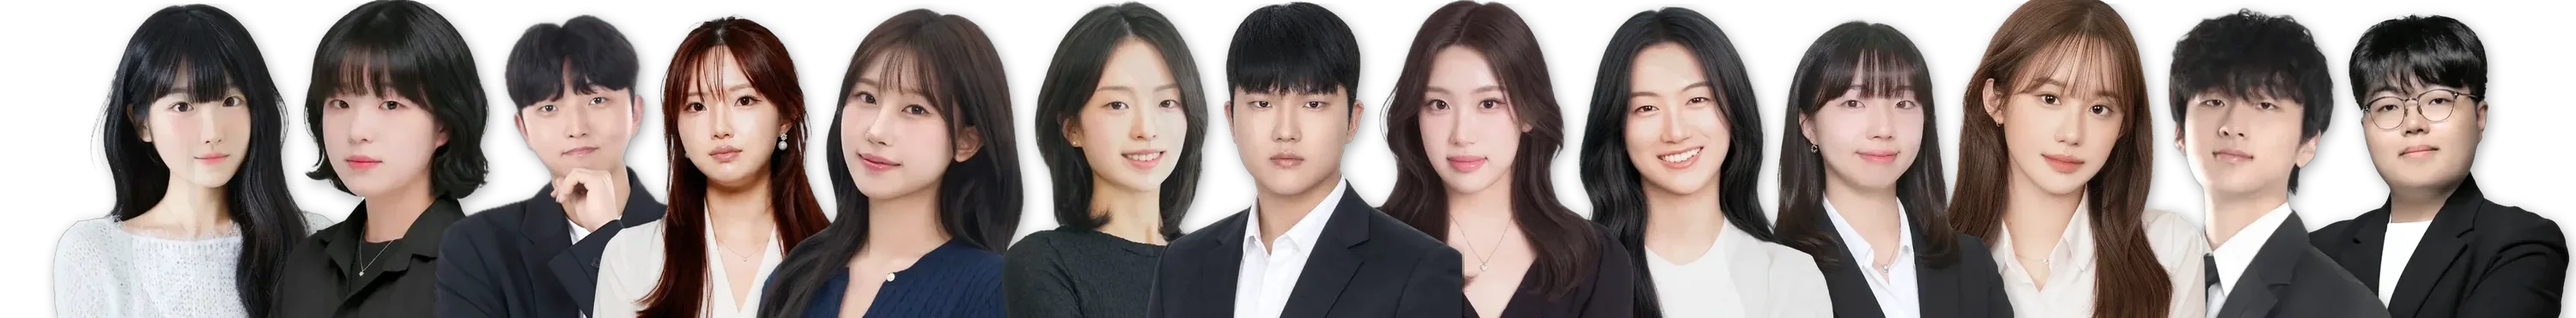
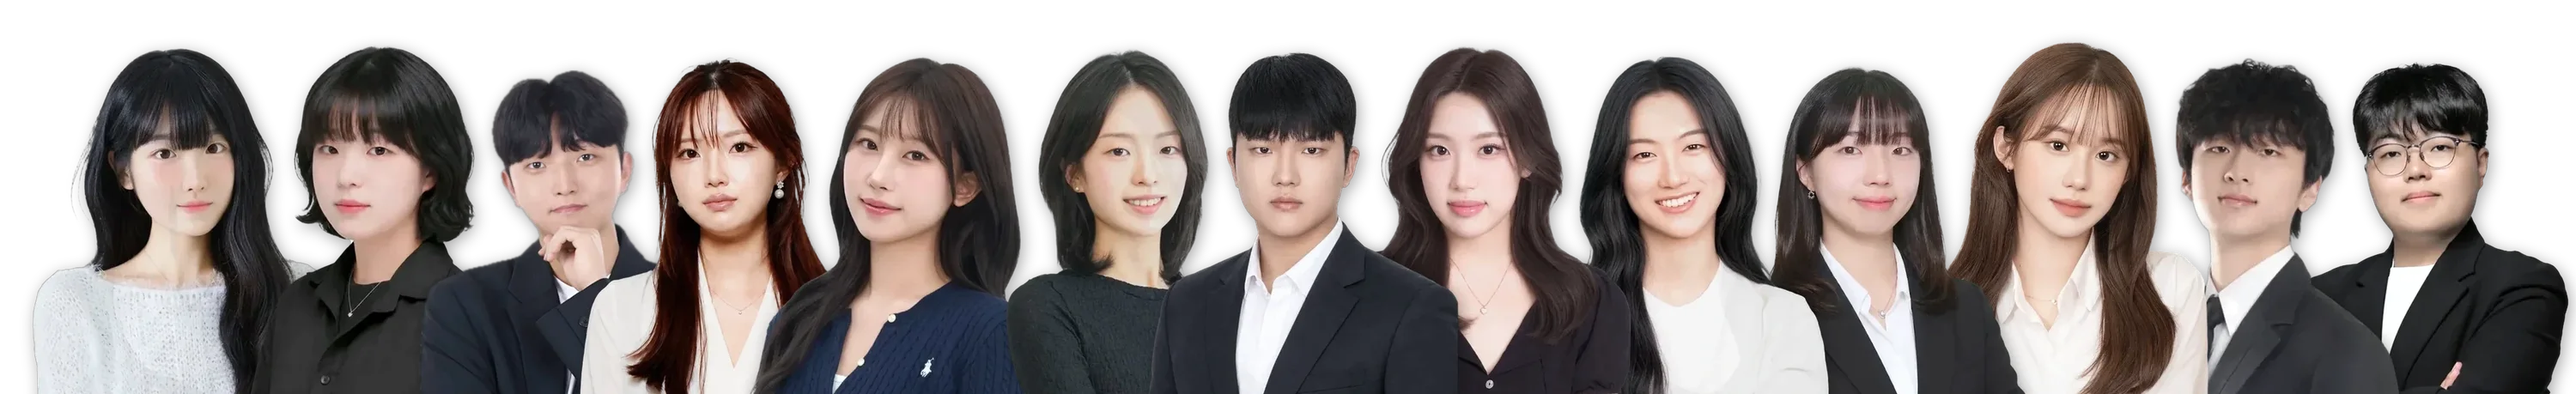
메인: 선생님 단체 사진 다시 만듦(얼굴 68점 인식으로 얼굴 크기·눈 높이 맞춤, 머리 잘림 없앰, 머리 간격 동일), 슬로건과 '메이트학원 목동관·김포관' 간격 넓힘 [skip netlify]
Claude-Session: https://claude.ai/code/session_011njH4Ur6oq6sieSq6qMimB

diff --git a/index.html b/index.html
@@ -33,9 +33,9 @@ body{background:#fff;color:#111}
 .hero-in{text-align:center;padding:34px 0 0}
 .eb{font-size:14px;font-weight:800;letter-spacing:.14em;opacity:.85}
 h1{font-size:clamp(46px,8.5vw,108px);font-weight:900;letter-spacing:-.06em;line-height:1.05;margin:10px 0 0}
-.lead{font-size:clamp(17px,2.2vw,22px);font-weight:700;opacity:.92;margin-top:14px}
-.team{margin-top:30px;position:relative;overflow:hidden;height:calc(min(100vw,1480px) * .1236)}
-.team img{position:absolute;left:50%;bottom:0;transform:translateX(-50%);width:min(100vw,1480px);max-width:none}
+.lead{font-size:clamp(17px,2.2vw,22px);font-weight:700;opacity:.92;margin-top:clamp(22px,2.6vw,34px)}
+.team{margin-top:34px;overflow:hidden;--tw:min(100vw,1480px)}
+.team img{display:block;width:var(--tw);max-width:none;margin-left:calc(50% - var(--tw) / 2)}
 .main{position:relative}
 .brs{display:grid;grid-template-columns:1fr 1fr;gap:18px;padding-top:46px}
 .br{display:grid;grid-template-columns:auto 1fr auto;column-gap:22px;align-items:center;border:2px solid #EEE;border-radius:20px;padding:26px 28px;transition:border-color .2s,transform .2s}
@@ -46,7 +46,7 @@ h1{font-size:clamp(46px,8.5vw,108px);font-weight:900;letter-spacing:-.06em;line-
 .exs{margin-top:18px}
 
 footer{background:#fff;color:#888;border-top:1px solid #EEE}footer a{color:#111}
-@media(max-width:720px){.wrap{padding:0 18px}.top{height:64px}.top nav{display:none}.top .lg{font-size:20px}.top .lg svg{width:32px}.hero-in{padding:14px 0 0}.team{margin-top:22px;height:calc(100vw / .55 * .1236)}.team img{width:calc(100vw / .55)}
+@media(max-width:720px){.wrap{padding:0 18px}.top{height:64px}.top nav{display:none}.top .lg{font-size:20px}.top .lg svg{width:32px}.hero-in{padding:14px 0 0}.team{margin-top:24px;--tw:calc(100vw / .54)}
 .brs{grid-template-columns:1fr;padding-top:28px;gap:12px}.br{padding:18px;column-gap:14px}.br img{width:58px}.br b{font-size:26px}.br .ph{display:block}.br .dot{display:none}.br .go{width:40px;height:40px}}
 
 .row{display:flex;justify-content:center;align-items:flex-end;overflow:hidden}
